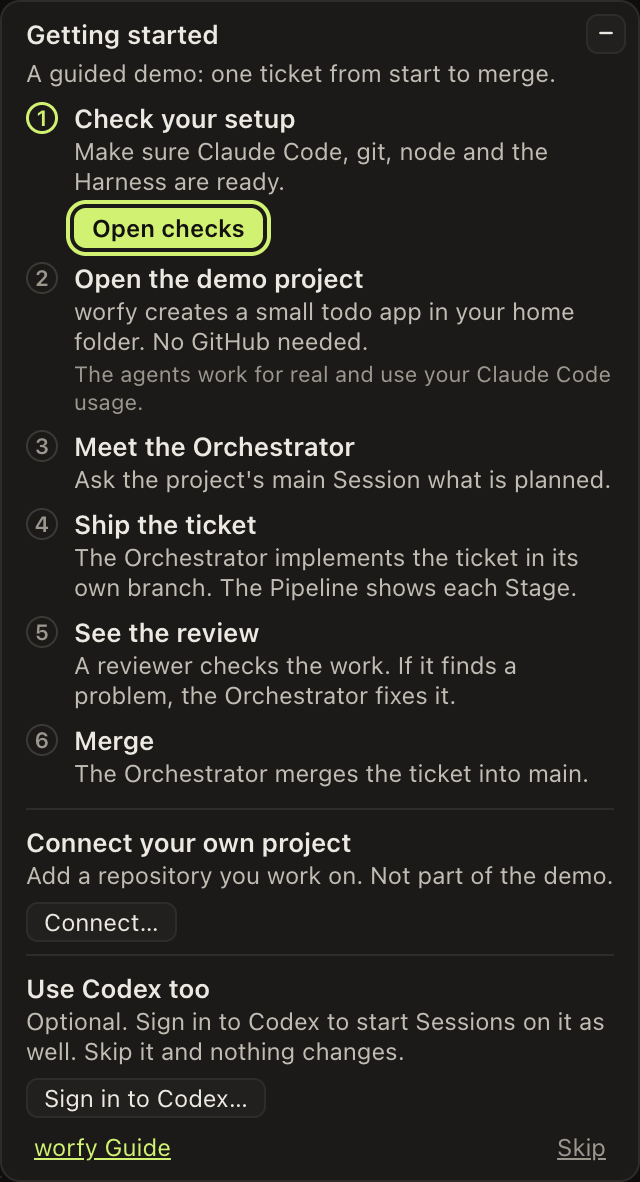
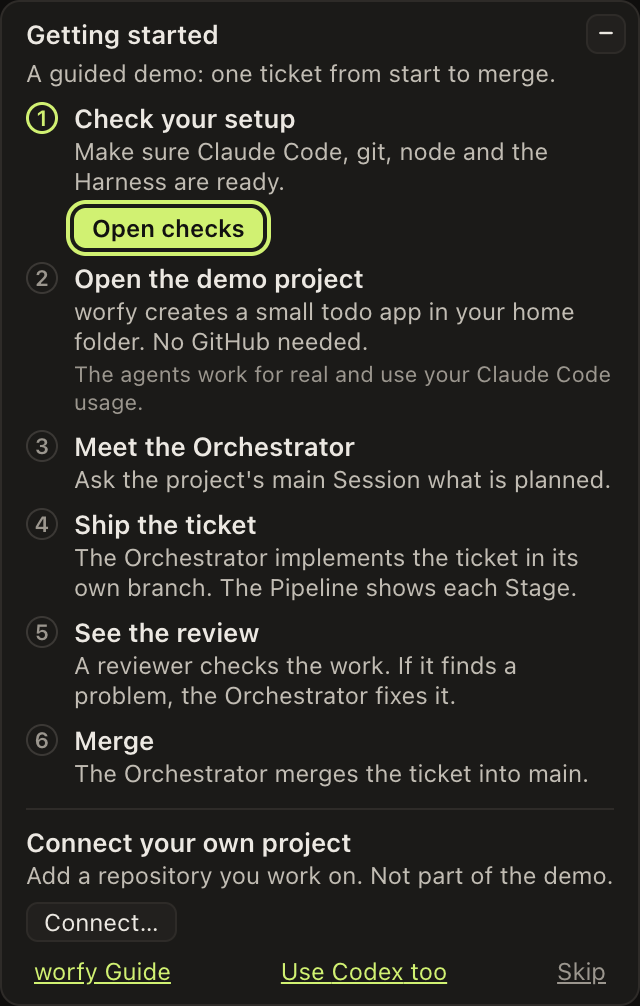
fix(getting-started): "Use Codex too" as a footer link, so the panel keeps its height
The separate block under "Connect your own project" made the corner panel about 100 px taller. In the
Session view the toast of Skip then no longer fit under the panel, went to the top and covered Hide
tools (test/e2e/getting-started.spec.ts on macOS and Windows). The link now sits in the footer between
"worfy Guide" and "Skip" and adds no height; it still opens Settings → Vendors and shows only while
Codex is in the build.

diff --git a/src/renderer/getting-started/GettingStartedPanel.tsx b/src/renderer/getting-started/GettingStartedPanel.tsx
@@ -66,8 +66,8 @@ import { GETTING_STARTED_COLLAPSED_KEY, skipGettingStarted, useGettingStarted, u
  * alike, opens the worfy Guide (ADR-0090) over the window; the panel stays as it was. Nothing in the
  * panel opens the Guide by itself.
  *
- * worfy-multi-vendor ticket 29: below "Connect your own project", the optional "Use Codex too" while
- * Codex is in the build (OptionalVendors). It is not one of the six steps.
+ * worfy-multi-vendor ticket 29: in the footer, between "worfy Guide" and "Skip", the optional link "Use
+ * Codex too" while Codex is in the build (OptionalVendors). It is not one of the six steps.
  */
 
 const QUESTION = 'What is planned in this project?'
@@ -326,10 +326,12 @@ function useHighlightRing(input: Omit<HighlightInput, 'onScreen'>): void {
 }
 
 /**
- * worfy-multi-vendor ticket 29: "Use Codex too", below "Connect your own project" — one block for each
- * optional Vendor this build carries (`vendors.list`: Codex when its binary is in the build). It is not a
- * step: nothing marks it, the count «n/6» does not include it, and leaving it alone changes nothing. Its
- * button opens Settings → Vendors, where the sign-in is. A list that cannot be read shows no block.
+ * worfy-multi-vendor ticket 29: "Use Codex too", a link in the footer between "worfy Guide" and "Skip" —
+ * one for each optional Vendor this build carries (`vendors.list`: Codex when its binary is in the build).
+ * It is not a step: nothing marks it, the count «n/6» does not include it, and leaving it alone changes
+ * nothing. It opens Settings → Vendors, where the sign-in is. In the footer it adds no height: a taller
+ * panel would leave no room for the toasts under it in the Session view, and they would cover the
+ * Session's header. A list that cannot be read shows no link.
  */
 function OptionalVendors() {
   const [vendors, setVendors] = useState<VendorEntry[]>([])
@@ -347,15 +349,17 @@ function OptionalVendors() {
   return vendors.map(({ vendor }) => {
     const label = vendorLabel(vendor)
     return (
-      <div key={vendor} style={styles.connect} data-testid="getting-started-vendor" data-vendor={vendor}>
-        <span style={styles.title}>Use {label} too</span>
-        <p style={styles.line}>Optional. Sign in to {label} to start Sessions on it as well. Skip it and nothing changes.</p>
-        <div style={styles.action}>
-          <button type="button" className="w-action" onClick={() => openSettings('VendorsSection')}>
-            Sign in to {label}…
-          </button>
-        </div>
-      </div>
+      <button
+        key={vendor}
+        type="button"
+        style={styles.guide}
+        title={`Optional: sign in to ${label} in Settings → Vendors to start Sessions on it as well`}
+        data-testid="getting-started-vendor"
+        data-vendor={vendor}
+        onClick={() => openSettings('VendorsSection')}
+      >
+        Use {label} too
+      </button>
     )
   })
 }
@@ -589,13 +593,13 @@ export function GettingStartedPanel({ sessionView = false }: { sessionView?: boo
                 </button>
               </div>
             </div>
-            <OptionalVendors />
           </>
         )}
         <div style={styles.footer}>
           <button type="button" style={styles.guide} onClick={() => openGuide()}>
             worfy Guide
           </button>
+          <OptionalVendors />
           <button type="button" style={styles.skip} onClick={() => void skip()}>
             Skip
           </button>

diff --git a/test/unit/getting-started-panel.test.tsx b/test/unit/getting-started-panel.test.tsx
@@ -410,7 +410,7 @@ describe('the Getting started panel', () => {
   })
 
   // worfy-multi-vendor ticket 29: "Use Codex too", only while Codex is in the build; not a step.
-  it('"Use Codex too" while Codex is in the build: not a step, and its button opens Settings → Vendors', async () => {
+  it('"Use Codex too" while Codex is in the build: a link in the footer, not a step, and it opens Settings → Vendors', async () => {
     await renderPanel(twoDone())
     const section = await waitFor(region)
     ;(await callOf('vendors.list')).answer({
@@ -422,15 +422,15 @@ describe('the Getting started panel', () => {
         ],
       },
     })
-    const block = await waitFor(() => within(section).getByTestId('getting-started-vendor'))
-    expect(block.dataset.vendor).toBe('codex')
-    expect(within(block).getByText('Use Codex too')).toBeTruthy()
-    expect(within(block).getByText('Optional. Sign in to Codex to start Sessions on it as well. Skip it and nothing changes.')).toBeTruthy()
-    // Not one of the six steps, and nothing of it is marked.
+    const link = await waitFor(() => within(section).getByRole('button', { name: 'Use Codex too' }))
+    expect(link.dataset.vendor).toBe('codex')
+    expect(link.getAttribute('title')).toBe('Optional: sign in to Codex in Settings → Vendors to start Sessions on it as well')
+    // In the footer, between "worfy Guide" and "Skip"; not one of the six steps.
+    expect([...link.parentElement!.children].map((each) => each.textContent)).toEqual(['worfy Guide', 'Use Codex too', 'Skip'])
     expect(steps()).toHaveLength(6)
-    expect(block.closest('[data-testid="getting-started-step"]')).toBeNull()
+    expect(link.closest('[data-testid="getting-started-step"]')).toBeNull()
     const { useSettingsWindow } = await import('../../src/renderer/settings/settings-window')
-    fireEvent.click(within(block).getByRole('button', { name: 'Sign in to Codex…' }))
+    fireEvent.click(link)
     expect(useSettingsWindow.getState()).toEqual({ open: true, section: 'VendorsSection' })
   })
 

diff --git a/test/e2e/onboarding-codex.spec.ts b/test/e2e/onboarding-codex.spec.ts
@@ -10,7 +10,7 @@ import { clickMenuItem } from './menu'
 // agents on their fakes: Claude Code on the fake agent, Codex on the fake app-server (WORFY_CODEX=fake,
 // which every launch sets; the real Codex never starts, and nothing here signs in anywhere).
 //
-// - Fake `login`: Getting started offers "Use Codex too", whose button opens Settings → Vendors; there
+// - Fake `login`: Getting started offers the link "Use Codex too" in its footer, which opens Settings → Vendors; there
 //   «Sign in to Codex» runs the fake's ChatGPT sign-in. Its page reaches only a recorder that replaces
 //   shell.openExternal in main — no browser opens, no OpenAI page loads. The row then shows the account
 //   the sign-in ended with. The fake plays one script from its start for every process and keeps no
@@ -119,13 +119,13 @@ test('fake `login`: Getting started → Settings → Vendors → «Sign in to Co
     await canvasReady(launched, { size: SIZE })
     await recordOutside(app)
 
-    // Getting started offers Codex, apart from its six steps.
+    // Getting started offers Codex in its footer, apart from its six steps.
     const panel = window.getByTestId('getting-started')
-    const useCodex = panel.locator('[data-testid="getting-started-vendor"][data-vendor="codex"]')
-    await expect(useCodex).toContainText('Use Codex too')
+    const useCodex = panel.getByRole('button', { name: 'Use Codex too' })
+    await expect(useCodex).toHaveAttribute('data-vendor', 'codex')
     await expect(panel.getByTestId('getting-started-step')).toHaveCount(6)
     await screenshots(window, panel, '29-getting-started')
-    await useCodex.getByRole('button', { name: 'Sign in to Codex…' }).click()
+    await useCodex.click()
 
     // Its button opens Settings on Vendors: Claude Code signed in (the fake agent's account), Codex not.
     const dialog = window.getByRole('dialog', { name: 'Settings' })

diff --git a/docs/features/onboarding.md b/docs/features/onboarding.md
@@ -232,9 +232,10 @@ project" and "Remove the demo project". "Show steps" brings the list back until 
 from. The Command palette's "Getting started" shows the panel again at any time, expanded and with the focus on its heading, with or
 without a Project.
 "Connect your own project" under the steps is not part of the demo: "Connect…" opens the same "Add project" as "+" of Projects.
-Below it, while Codex is in this build, "Use Codex too" is optional and not a step: nothing marks it, and the count `n/6` leaves it
-out. "Sign in to Codex…" opens Settings → Vendors, where the sign-in is ([Sessions](sessions.md)). Leaving it alone changes
-nothing; the sign-in to Claude Code stays a check of step 1.
+While Codex is in this build, the footer has the link "Use Codex too" between "worfy Guide" and "Skip", under the steps and under
+Done alike. It is optional and not a step: nothing marks it, and the count `n/6` leaves it out. It opens Settings → Vendors, where
+the sign-in is ([Sessions](sessions.md)). Leaving it alone changes nothing; the sign-in to Claude Code stays a check of step 1. It
+adds no height to the panel, so the toasts still fit under the panel in the Session view.
 
 #### Windows
 
